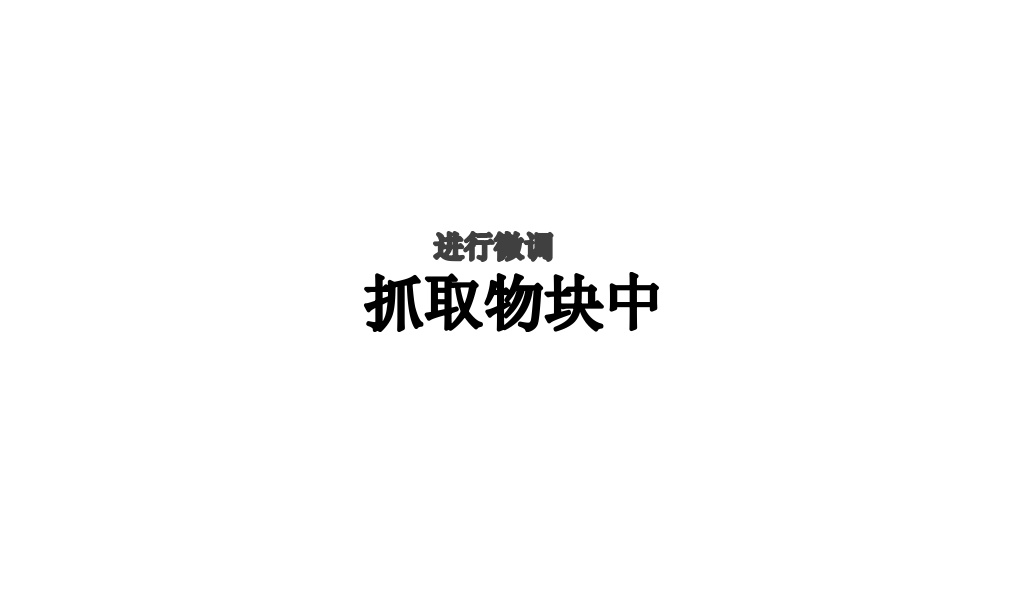
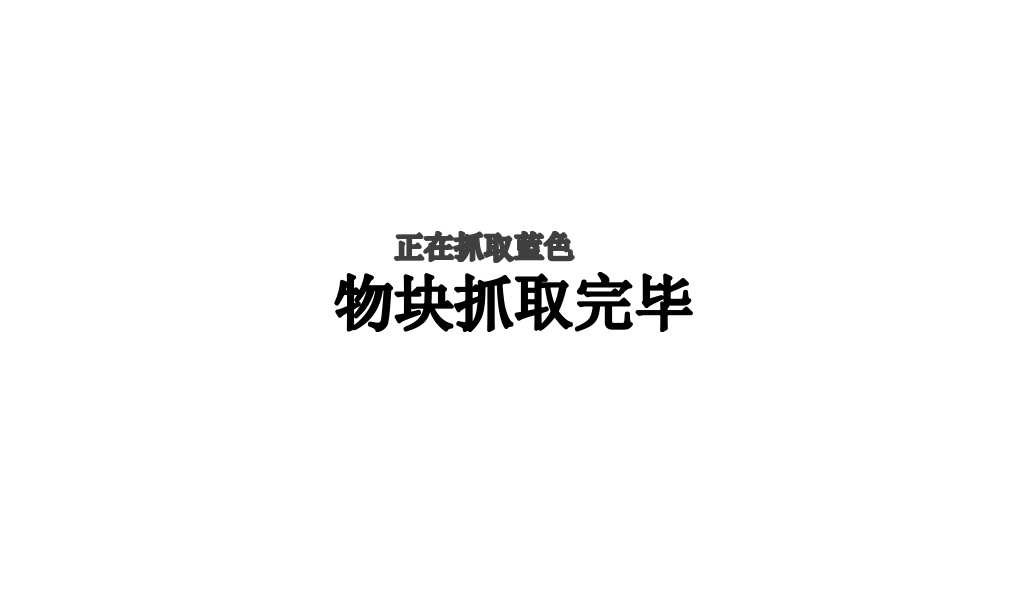
syn img

Changed region(s): [[0.3125, 0.36, 0.6875, 0.57]]

diff --git a/src/look.py b/src/look.py
@@ -121,40 +121,40 @@ from VisionUtils import *
 # cv2.waitKey(0)
 
 
-cap = VideoCapture("/dev/cameraInc")  # 读取视频文件，参数设置为0表示从摄像头获取图像
+# cap = VideoCapture("/dev/cameraInc")  # 读取视频文件，参数设置为0表示从摄像头获取图像
 
 
-def moving_detect(frame1, frame2):
-    img1 = cv2.cvtColor(frame1, cv2.COLOR_BGR2GRAY)
-    img2 = cv2.cvtColor(frame2, cv2.COLOR_BGR2GRAY)
-    grey_diff = cv2.absdiff(img1, img2)  # 计算两幅图的像素差
-    change = np.average(grey_diff)
+# def moving_detect(frame1, frame2):
+#     img1 = cv2.cvtColor(frame1, cv2.COLOR_BGR2GRAY)
+#     img2 = cv2.cvtColor(frame2, cv2.COLOR_BGR2GRAY)
+#     grey_diff = cv2.absdiff(img1, img2)  # 计算两幅图的像素差
+#     change = np.average(grey_diff)
 
-    if change > 3:  # 当两幅图的差异大于给定的值后，认为画面有物体在动
-        cv2.putText(frame2, 'moving', (100, 30), 2, 1, (0, 255, 0), 2, cv2.LINE_AA)
-    else:
-        cv2.putText(frame2, 'quiet', (100, 30), 2, 1, (255, 0, 0), 2, cv2.LINE_AA)
-    cv2.imshow("output", frame2)
-
-
-frame1 = cap.read()
-img1 = cv2.cvtColor(frame1, cv2.COLOR_BGR2GRAY)  # 将图片转为灰度图，第一个返回值表示是否转换成功，第二个返回值就是灰度图了
-start = time.time()
-while True:
-    end = time.time()
-    if (end - start > 0.3):  # 每隔2秒拍一幅图，比较前后两幅图的差异
-        start = time.time()
-        frame1 = cap.read()
-
-    frame2 = cap.read()
-    moving_detect(frame1, frame2)
-    if cv2.waitKey(5) & 0xFF == ord('q'):  # 按下q停止运行程序
-        break
+#     if change > 3:  # 当两幅图的差异大于给定的值后，认为画面有物体在动
+#         cv2.putText(frame2, 'moving', (100, 30), 2, 1, (0, 255, 0), 2, cv2.LINE_AA)
+#     else:
+#         cv2.putText(frame2, 'quiet', (100, 30), 2, 1, (255, 0, 0), 2, cv2.LINE_AA)
+#     cv2.imshow("output", frame2)
 
 
-# 最后，关闭所有窗口
-cap.release()
-cv2.destroyAllWindows()
+# frame1 = cap.read()
+# img1 = cv2.cvtColor(frame1, cv2.COLOR_BGR2GRAY)  # 将图片转为灰度图，第一个返回值表示是否转换成功，第二个返回值就是灰度图了
+# start = time.time()
+# while True:
+#     end = time.time()
+#     if (end - start > 0.3):  # 每隔2秒拍一幅图，比较前后两幅图的差异
+#         start = time.time()
+#         frame1 = cap.read()
+
+#     frame2 = cap.read()
+#     moving_detect(frame1, frame2)
+#     if cv2.waitKey(5) & 0xFF == ord('q'):  # 按下q停止运行程序
+#         break
+
+
+# # 最后，关闭所有窗口
+# cap.release()
+# cv2.destroyAllWindows()
 
 # import cv2
 # import numpy as np

diff --git a/src/finalVision.py b/src/finalVision.py
@@ -159,7 +159,7 @@ def catchItemF(threshold: list, queue: list, loop:int):
     reflashScreen("抓取物块中")
     print("抓取顺序:", queue)
     XCenter, YCenter = 320, 240
-    ROI = [XCenter - 160, YCenter - 160, 320, 320]  # 待确定
+    ROI = [XCenter - 150, YCenter - 130, 300, 260]  # 待确定
 
     # 设置相机参数
     cap = VideoCapture("/dev/cameraInc")
@@ -221,23 +221,30 @@ def catchItemF(threshold: list, queue: list, loop:int):
 
         img_note = img.copy()
         if  not compRect(ROI, box) or \
-            w < 90 or h < 90 or s < 4000 or \
-            abs(udx) > 290 or abs(udy) > 210 or \
-            max(w, h) / min(w, h) > 1.3 :
+            abs(udx) > 290 or abs(udy) > 210:
             print("不符合条件")
             cv2.rectangle(img_note, plu, prd, (0, 255, 255), 2)
-            cv2.imwrite(f"/home/pi/GongXun/src/data/t21fineTuneItem/不符合要求的{k}.jpg" ,img_note)
+            cv2.imwrite(f"/home/pi/GongXun/src/data/t22catchItem/不符合要求的{k}.jpg" ,img_note)
             k += 1
             continue
         else:  # 可以抓取
-            colorCMD = ["catchR", "catchG", "catchB"]
-            cmd = xmlReadCommand(colorCMD[target_color], 1)
-            print("识别到", color[target_color], "颜色正确, 进行抓取")
             color = ["红色", "绿色", "蓝色"]
-            reflashScreen(f"正在抓取{color[target_color]}")
+            colorCMD = ["catchR", "catchG", "catchB"]
+            cmd = xmlReadCommand(colorCMD[target_color - 1], 1)
+            print("识别到", color[target_color - 1], "颜色正确, 进行抓取")
+            reflashScreen(f"正在抓取{color[target_color - 1]}")
             print("将发送的命令为：", cmd)
             send_data(cmd, 0, 0)
             n+=1
+            while True:
+                response = recv_data()
+                print("等待抓取动作完成, 当前接收命令: [", response, "]", end='\r')
+                # print("等待抓取动作完成, 当前接收命令:", response)
+                if response is not None:
+                    if response == xmlReadCommand("mngOK", 0):
+                        print("抓取动作执行完毕, 进行下一步")
+                        break
+
 
     cmd = xmlReadCommand("task2OK", 1)  # t2ok
     print("三个物块都抓取完毕，发送:", cmd,"进行下一步")
